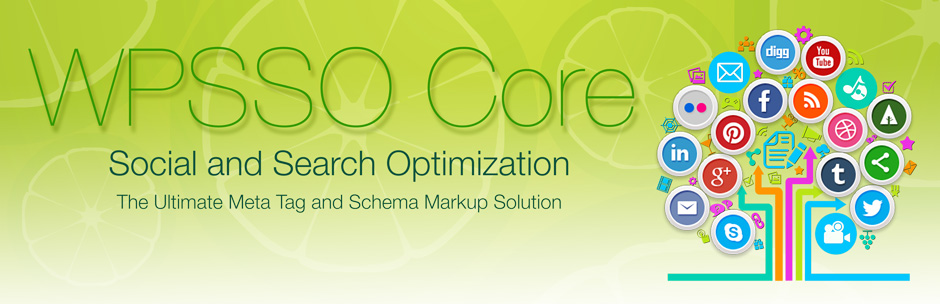
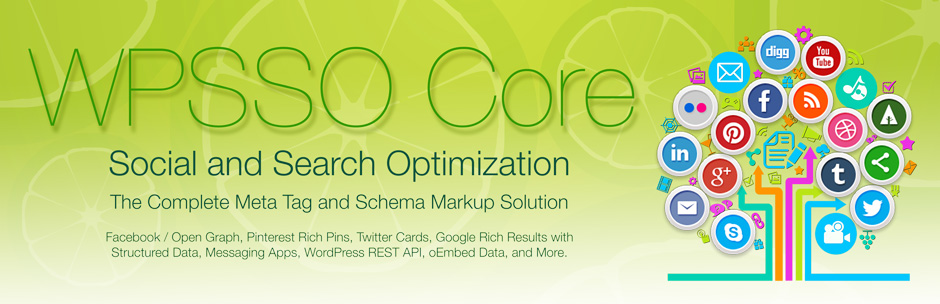
non-essential support files (documentation and assets)

Changed region(s): [[0.0926, 0.7697, 0.617, 0.8586], [0.1234, 0.6217, 0.617, 0.7105]]

diff --git a/index.html b/index.html
@@ -25,7 +25,7 @@
         </ul>
       </header>
       <section>
-<h1>WPSSO Core</h1><h3>The Ultimate Meta Tag and Schema Markup Solution</h3>
+<h1>WPSSO Core</h1><h3>The Complete Meta Tag and Schema Markup Solution</h3>
 
 <table>
 <tr><th align="right" valign="top" nowrap>Plugin Name</th><td>WPSSO Core</td></tr>
@@ -46,11 +46,13 @@
 
 <p><strong>Makes sure your content looks great on all social and search sites - no matter how webpage URLs are crawled, shared, re-shared, posted, or embedded:</strong></p>
 
-<p>WPSSO Core and its complementary add-ons are provide comprehensive information about your webpage content to social sites (Facebook, Pinterest, Twitter, LinkedIn, etc.), search engines and crawlers (Google, Bing, etc.), mail and text messaging apps (Facebook Messenger, iMessage, Skype, WhatsApp, etc.), REST API clients, and oEmbed data for embedded objects / iframes &mdash; all from your existing WordPress content and plugin data!</p>
+<p>WPSSO Core and its complementary add-ons are provide comprehensive information about your webpage content to social sites (Facebook, Pinterest, Twitter, LinkedIn, etc.), search engines and crawlers (Google, Bing, etc.), mail and text messaging apps (Facebook Messenger, iMessage, Skype, WhatsApp, etc.), REST API clients, and oEmbed data for embedded objects / iframes (LinkedIn, WordPress, etc.) &mdash; all from your existing WordPress content and plugin data.</p>
+
+<p>No other meta tag or Schema plugin satisfies so many essential social and search markup standards.</p>
 
 <p><strong>Uses your pre-existing WordPress content and plugin / API data:</strong></p>
 
-<p>There's no need to manually re-enter descriptions, titles, product information, re-select images / videos, etc. WPSSO reads your existing post, page, product, media, recipe, event, forum, and SEO content automatically &mdash; while also offering fine-tuning and customization options for just about everything. ;-)</p>
+<p>There's no need to manually duplicate or re-enter descriptions, titles, product information, re-select images / videos, etc. WPSSO reads your existing post, page, product, media, recipe, event, forum, and SEO content automatically &mdash; while also offering fine-tuning and customization options for just about everything. ;-)</p>
 
 <p><strong>Creates complete and accurate meta tags and Schema markup:</strong></p>
 
